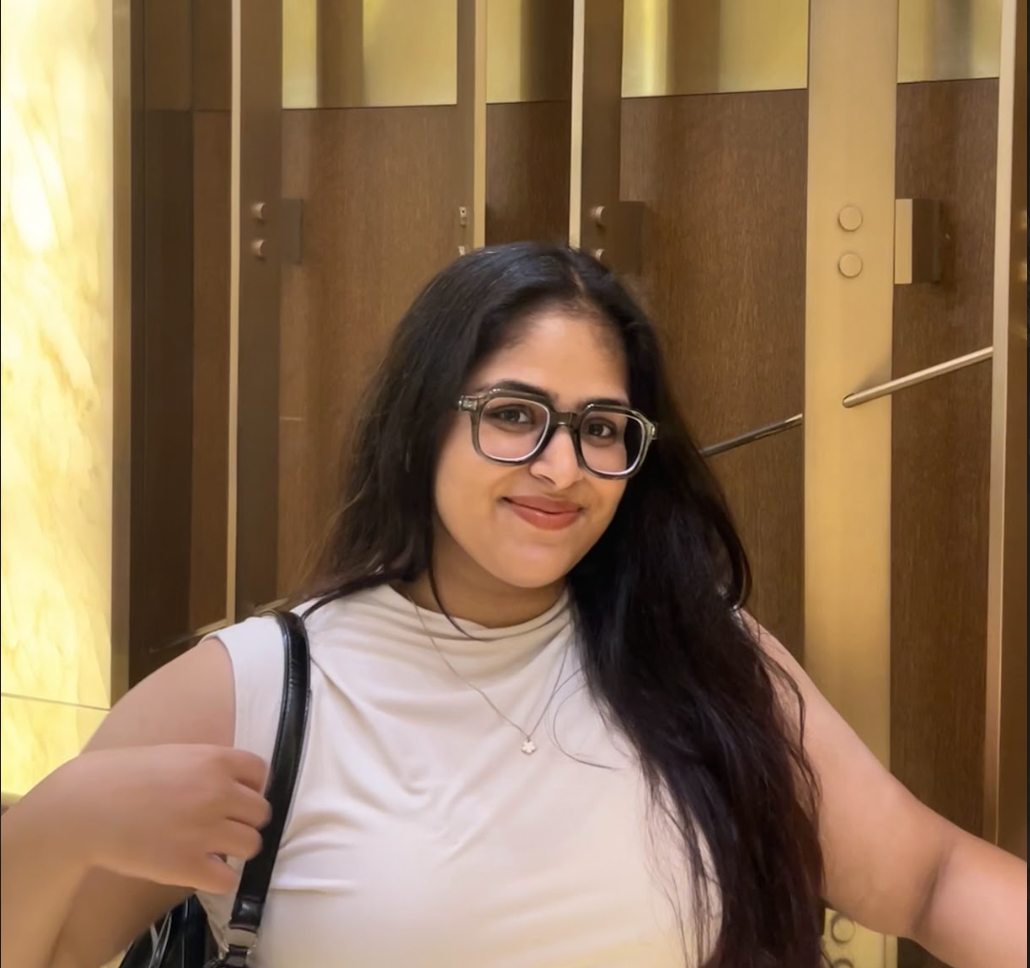
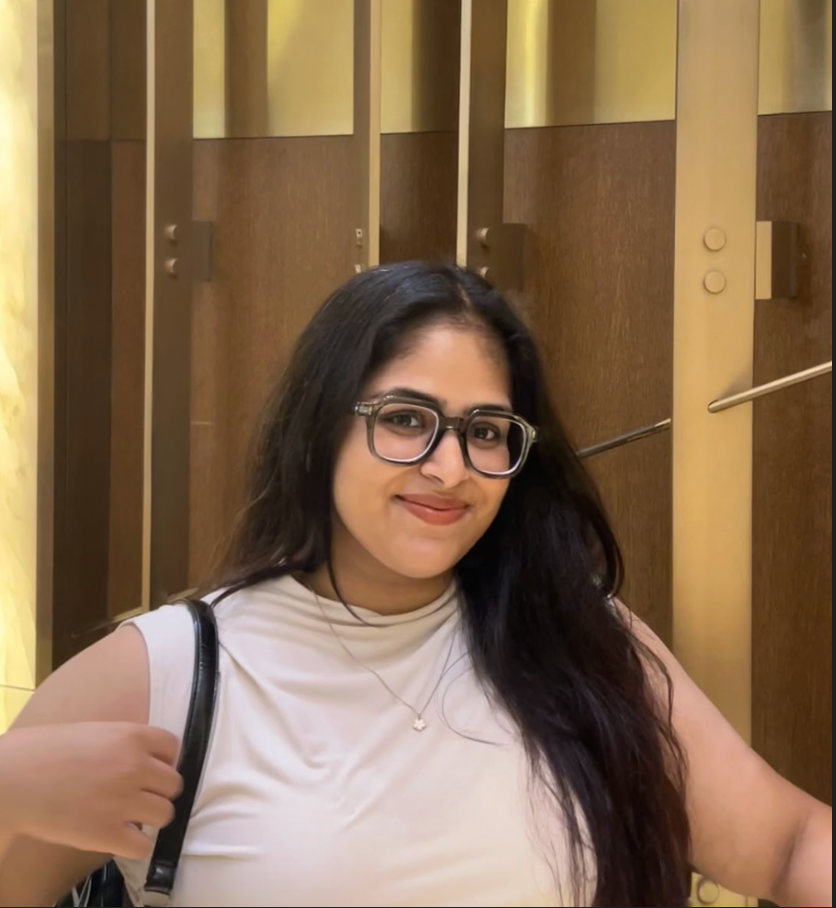
message idc

diff --git a/src/Pages/Team/team.css b/src/Pages/Team/team.css
@@ -2,6 +2,8 @@
   position: relative;
   width: 100vw;
   height: 100vh;
+  /* 🟢 Switch to dynamic viewport height so the mobile URL bar doesn't break the layout */
+  height: 100dvh; 
   overflow: hidden;
   background-color: #050505;
   display: flex;
@@ -112,7 +114,6 @@
   display: none;
 }
 
-
 /* ==========================================
    📱 THE MASTER MOBILE FIX 
    ========================================== */
@@ -123,10 +124,10 @@
     display: none !important;
   }
 
-  /* 🟢 1. Header takes up exactly 150px of physical space */
+  /* 🟢 Fixed Exact Heights to compute perfect scroll bounds */
   .team-heading-container {
-    height: 150px; 
-    padding-top: 80px; /* Clears fixed navbar perfectly */
+    height: 145px !important; 
+    padding-top: 80px; 
     padding-bottom: 10px;
     align-items: flex-end; 
   }
@@ -135,16 +136,17 @@
     height: 55px; 
   }
 
-  /* 🟢 2. The Ribbon takes up exactly 65px */
+  /* 🟢 THE HORIZONTAL RIBBON */
   .team-mobile-nav {
     display: flex;
-    height: 65px; 
+    height: 65px !important; /* Fixed mathematical height */
     width: 100%;
     overflow-x: auto;
-    scroll-snap-type: x mandatory;
+    /* Removed scroll snap entirely—JS handles the centering flawlessly now! */
+    scroll-snap-type: none; 
     gap: 12px;
-    padding: 0; /* Remove internal padding, rely on pseudo-elements */
-    align-items: center; /* Center pills vertically */
+    padding: 0 20px; /* Standard safe padding */
+    align-items: center; 
     
     background: rgba(15, 5, 20, 0.85); 
     backdrop-filter: blur(10px);
@@ -161,15 +163,8 @@
     display: none; 
   }
 
-  /* 🟢 THE FIX FOR CUT OFF PILLS: Invisible bumpers on the far left and right */
-  .team-mobile-nav::before,
-  .team-mobile-nav::after {
-    content: '';
-    flex: 0 0 20px; /* Guarantees 20px of un-squishable space at the edges */
-  }
-
   .mobile-nav-pill {
-    scroll-snap-align: center;
+    flex-shrink: 0; /* Prevents text from ever squishing */
     white-space: nowrap;
     background: transparent;
     border: 1px solid rgba(184, 115, 51, 0.4);
@@ -183,6 +178,11 @@
     transition: all 0.3s ease;
   }
 
+  /* 🟢 FIXES THE RIGHT EDGE CUTOFF */
+  .mobile-nav-pill:last-child {
+    margin-right: 20px; 
+  }
+
   .mobile-nav-pill.active {
     background: rgba(184, 115, 51, 0.2);
     color: #e6daad;
@@ -191,9 +191,13 @@
     font-weight: bold;
   }
 
-  /* 🟢 3. The Scroll Container behaves strictly */
+  /* 🟢 THE SCROLL CONTAINER */
   .team-scroll-container {
     scroll-snap-type: y mandatory;
+    /* CRUCIAL FIX: Removed the buggy scroll-padding-top. The nav lives outside this container, so it automatically starts at 0 */
+    scroll-padding-top: 0px; 
+    /* Occupies the exact remaining height (100dvh - 145px heading - 65px ribbon = 210px) */
+    height: calc(100dvh - 210px) !important;
   }
 
   .team-section-container {
@@ -204,17 +208,19 @@
     padding: 0 !important;
   }
 
-  /* 🟢 4. THE FIX FOR CLUBBED CARDS */
-  /* Mathematical height: 100dvh minus 150px (heading) minus 65px (ribbon) = 215px */
+  /* 🟢 THE FIX FOR CLUBBED & CUT-OFF CARDS */
   .member-card-outer {
-    height: calc(100dvh - 215px) !important;
-    min-height: 0 !important;
+    /* 1 Card = Exactly 1 Viewport Window */
+    height: calc(100dvh - 210px) !important;
+    min-height: 450px !important; 
     max-height: none !important;
     width: 100vw !important;
-    padding: 15px 25px !important; 
+    
+    /* Heavy bottom padding ensures the nameplate never touches the URL bar */
+    padding: 20px 8% 50px 8% !important; 
     margin: 0 !important;
     
-    /* Forces the scroll view to perfectly lock onto the top of this specific card */
+    /* Forces the view to mathematically lock onto this single card */
     scroll-snap-align: start !important;
     scroll-snap-stop: always !important; 
   }
@@ -224,6 +230,6 @@
     width: 100% !important;
     max-width: 400px !important;
     height: 100% !important;
-    border-radius: 20px !important; /* Premium rounded edges for the mobile card */
+    border-radius: 20px !important; 
   }
 }

diff --git a/src/Pages/Team/team.jsx b/src/Pages/Team/team.jsx
@@ -39,7 +39,7 @@ const getAsset = (name) => {
   const path = `../../assets/${name}`;
   if (!preloadedAssets[path]) {
     console.warn(`Asset not found: ${name}`);
-    return ''; 
+    return null; // Keeps console clean if image is missing
   }
   return preloadedAssets[path];
 };
@@ -96,7 +96,7 @@ export default function TeamPage({ navHeight }) {
   const sectionRefs = useRef({});
   const hoverTimeoutRef = useRef(null); 
 
-  // 1. Viewport Resize & Scroll Observer
+  // 1. Observer to detect active section
   useEffect(() => {
     const handleResize = () => setIsMobile(window.innerWidth <= 768);
     window.addEventListener('resize', handleResize);
@@ -109,7 +109,7 @@ export default function TeamPage({ navHeight }) {
           }
         });
       },
-      // Safely detects which section occupies the direct center of the screen
+      // Safely detects exactly what is in the vertical center of the screen
       { rootMargin: "-40% 0px -40% 0px", threshold: 0 } 
     );
 
@@ -123,8 +123,7 @@ export default function TeamPage({ navHeight }) {
     };
   }, []);
 
-  // 2. 🟢 AUTO-SCROLL RIBBON LOGIC
-  // Whenever the active section changes, perfectly center the pill in the ribbon natively!
+  // 2. 🟢 AUTO-SCROLL RIBBON LOGIC (Flawless JS execution, replacing buggy CSS snap)
   useEffect(() => {
     if (isMobile) {
       const activePill = document.getElementById(`pill-${activeSection}`);
@@ -134,8 +133,10 @@ export default function TeamPage({ navHeight }) {
     }
   }, [activeSection, isMobile]);
 
+  // 3. Scroll to Section
   const handleSidebarClick = (id) => {
     const el = sectionRefs.current[id];
+    // Block: 'start' guarantees the top of the section perfectly hits the top of the scroll container
     if (el) el.scrollIntoView({ behavior: 'smooth', block: 'start' });
   };
 
@@ -165,7 +166,7 @@ export default function TeamPage({ navHeight }) {
         />
       </div>
 
-      {/* HORIZONTAL SWIPE MENU (MOBILE ONLY) */}
+      {/* 🟢 HORIZONTAL SWIPE MENU (MOBILE ONLY) */}
       <nav className="team-mobile-nav" id="mobile-nav-ribbon">
         {TEAMS.map((team) => (
           <button
@@ -235,16 +236,11 @@ export default function TeamPage({ navHeight }) {
         {TEAMS.map((team) => {
           const isGridDesktop = team.members.length >= 5 || team.id === 'sponsorship';
           
-          let itemWidth;
-          if (isMobile) {
-            itemWidth = '100%'; // Strict 1-column on mobile
-          } else {
-            itemWidth = isGridDesktop 
-              ? (team.id === 'sponsorship' ? '40%' : '30%') 
-              : `${100 / team.members.length}%`;
-          }
+          let itemWidth = isGridDesktop 
+            ? (team.id === 'sponsorship' ? '40%' : '30%') 
+            : `${100 / team.members.length}%`;
 
-          const treatAsGrid = isGridDesktop;
+          if (isMobile) itemWidth = '100%'; 
 
           return (
             <section
@@ -253,7 +249,7 @@ export default function TeamPage({ navHeight }) {
               ref={(el) => (sectionRefs.current[team.id] = el)}
               className="team-section-container"
               style={{
-                flexWrap: treatAsGrid ? 'wrap' : 'nowrap',
+                flexWrap: isMobile ? 'nowrap' : (isGridDesktop ? 'wrap' : 'nowrap'),
                 gap: STYLE_CONFIG.gridGap, 
               }}
             >
@@ -261,7 +257,7 @@ export default function TeamPage({ navHeight }) {
                 <MemberCard
                   key={member.id}
                   member={member}
-                  isGrid={treatAsGrid}
+                  isGrid={isGridDesktop}
                   cardWidth={itemWidth}
                   delay={index * (isMobile ? 0.05 : 0.15)} 
                   glowColor={LEVEL_COLORS[member.level] || '255, 255, 255'}

diff --git a/src/Components/Team/team.jsx b/src/Components/Team/team.jsx
@@ -50,10 +50,9 @@ export default function MemberCard({ member, isGrid, cardWidth, delay, config, g
         transform: isVisible ? 'translateY(0)' : 'translateY(50px)',
         transition: `opacity 1s cubic-bezier(0.25, 0.46, 0.45, 0.94) ${delay}s, transform 1s cubic-bezier(0.25, 0.46, 0.45, 0.94) ${delay}s`,
       } : {
-        /* Mobile handles animation via CSS to prevent conflicts with !important rules */
+        /* 🟢 Mobile strictly manages only opacity so scroll-snap doesn't jitter */
         opacity: isVisible ? 1 : 0,
-        transform: isVisible ? 'translateY(0)' : 'translateY(20px)',
-        transition: `opacity 0.6s ease ${delay}s, transform 0.6s ease ${delay}s`,
+        transition: `opacity 0.6s ease`,
       }}
       onMouseMove={handleMouseMove}
       onMouseEnter={() => !isMobile && setIsHovered(true)}
@@ -84,12 +83,16 @@ export default function MemberCard({ member, isGrid, cardWidth, delay, config, g
               WebkitClipPath: member.clipPath,
               borderRadius: config.photoRadius
             }}>
-              <img
-                src={getAsset(member.photo)}
-                alt={`Member ${member.id}`}
-                className="member-photo"
-                style={{ transform: (isHovered && !isMobile) ? 'scale(1.1)' : 'scale(1)' }}
-              />
+              {getAsset(member.photo) ? (
+                <img
+                  src={getAsset(member.photo)}
+                  alt={`Member ${member.id}`}
+                  className="member-photo"
+                  style={{ transform: (isHovered && !isMobile) ? 'scale(1.1)' : 'scale(1)' }}
+                />
+              ) : (
+                <div style={{ width: '100%', height: '100%', backgroundColor: 'rgba(0,0,0,0.5)' }} />
+              )}
             </div>
             <img src={getAsset(member.frame)} alt="Frame" className="member-frame-image" />
           </div>
